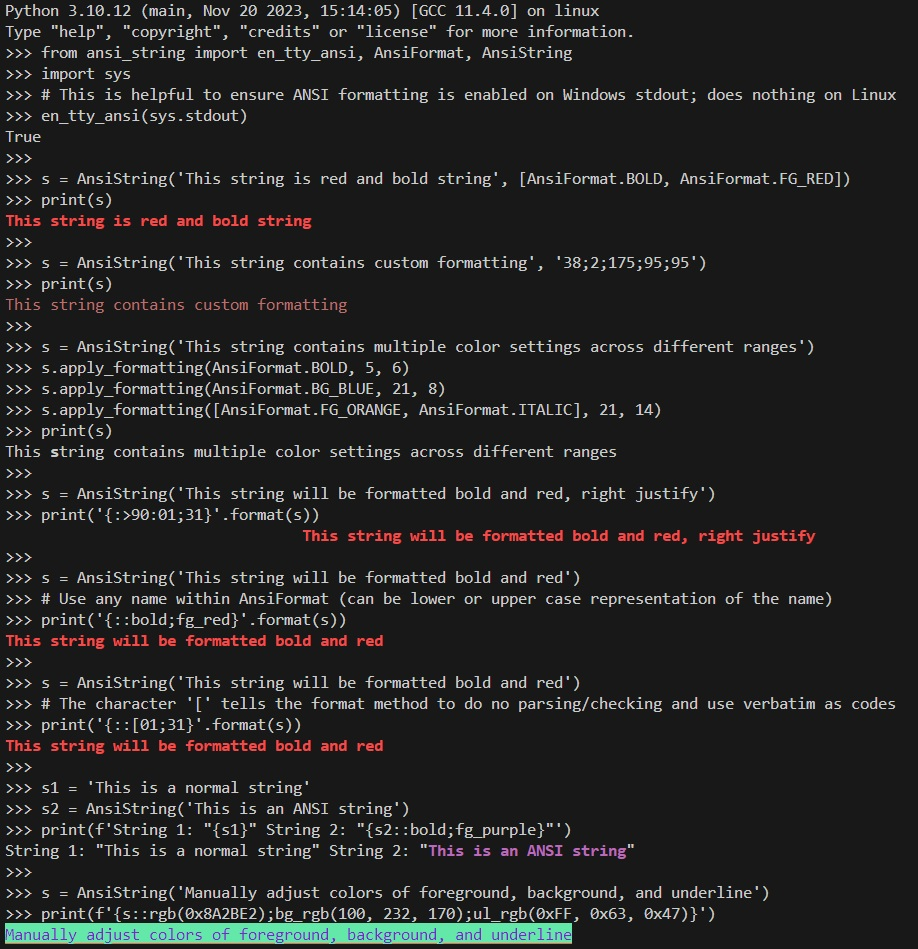
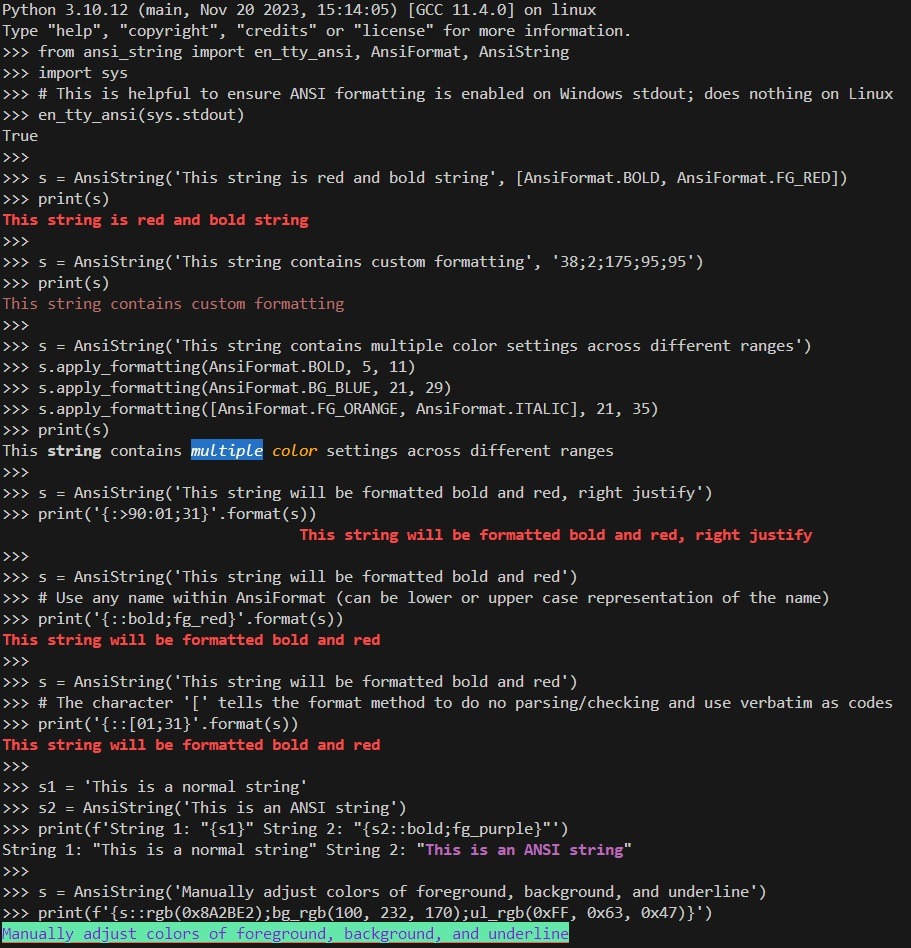
Corrected the apply_formatting example

diff --git a/src/ansi_string/ansi_string.py b/src/ansi_string/ansi_string.py
@@ -782,9 +782,9 @@ class AnsiString:
 
     Example 3:
     s = AnsiString('This string contains multiple color settings across different ranges')
-    s.apply_formatting(AnsiFormat.BOLD, 5, 6)
-    s.apply_formatting(AnsiFormat.BG_BLUE, 21, 8)
-    s.apply_formatting([AnsiFormat.FG_ORANGE, AnsiFormat.ITALIC], 21, 14)
+    s.apply_formatting(AnsiFormat.BOLD, 5, 11)
+    s.apply_formatting(AnsiFormat.BG_BLUE, 21, 29)
+    s.apply_formatting([AnsiFormat.FG_ORANGE, AnsiFormat.ITALIC], 21, 35)
     print(s)
 
     Example 4:
